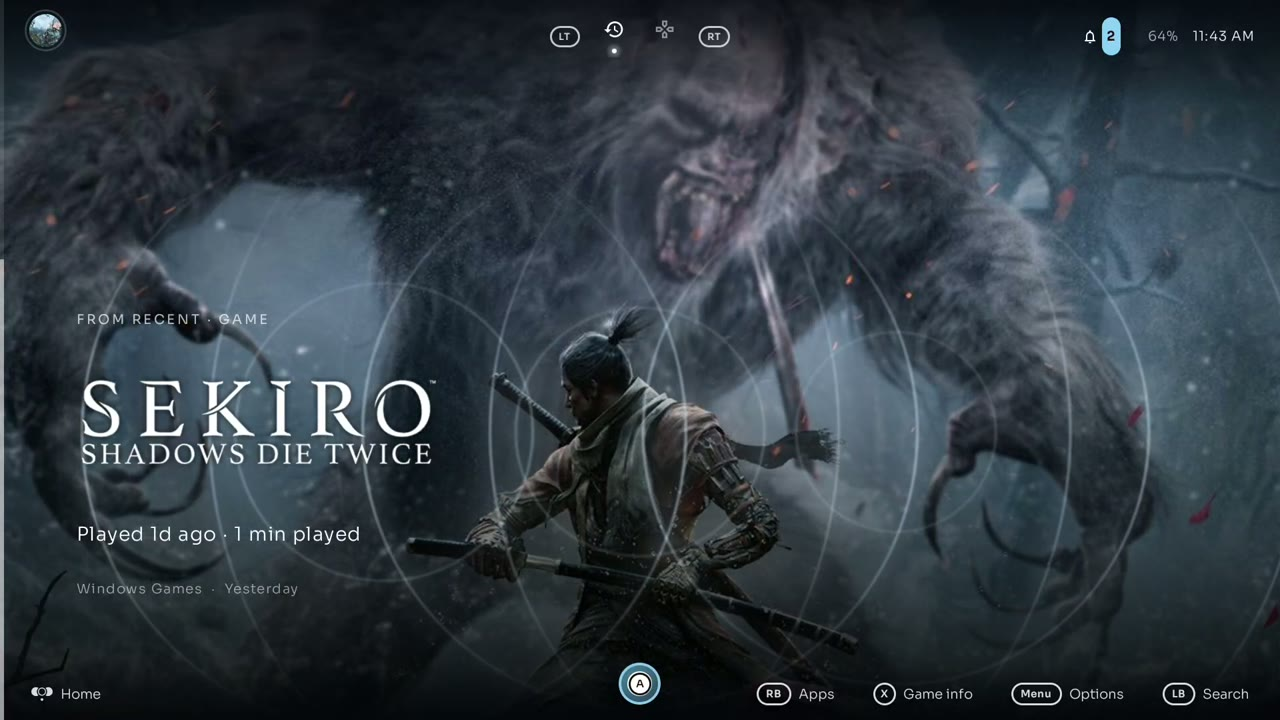
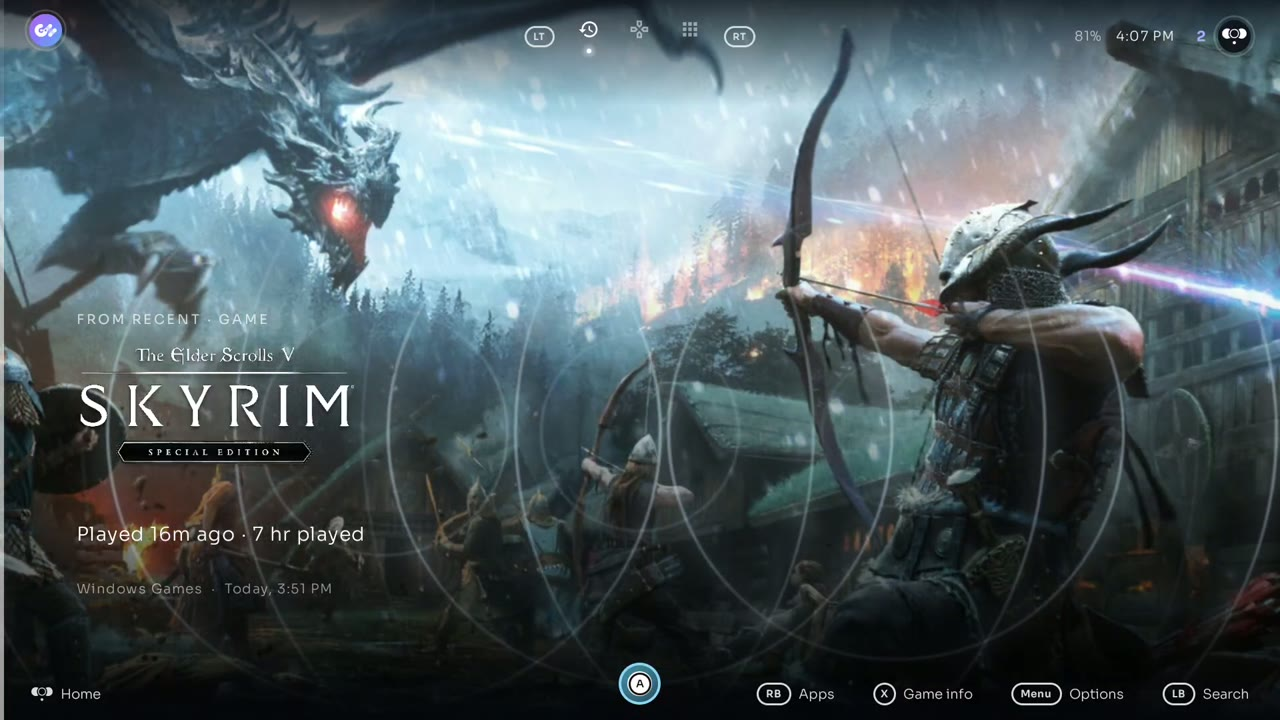
docs: screenshots and README for the shelf, the cases and the cover slot
Retaken on the Konker: Last Played and its rail, the App Drawer and its menu,
Search, Settings and Overview. The README describes the drawer's cases, the
search shelf, the icon slot as every game's cover, and Accounts > Artwork.

Verify: docs only; every image the README names exists.

diff --git a/README.md b/README.md
@@ -65,7 +65,9 @@ it in the colour of its art. Press LEFT, or swipe right, to bring in the **Recen
 | Last Played | The Recent rail |
 
 The bar along the top holds the **island** (what is playing, or the last thing you opened), the
-section icons, notifications, battery and time. The footer holds **Home** and **Back** on the left,
+section icons, battery and time, and at the far right a second island for notifications: the ECHO
+mark with the count beside it when something is waiting, otherwise your profile picture. A new
+notification drops out of it as a card; press it once to see the newest, twice to open them all. The footer holds **Home** and **Back** on the left,
 the **A** action in the centre, and the screen's own actions on the right. Games and apps launch
 when you **hold A** until the ring fills, so a stray press never launches anything.
 
@@ -99,16 +101,23 @@ anything destructive asks twice. **Game Info** shows play time, platform, screen
 
 ### The App Drawer and Search
 
-The **App Drawer** (RB) shows the focused app as a hero banner, with **Open** and **Options**, and
-every app below it in columns. Its sections (Recently Used, Apps, Emulators, Games) are icons in the
-top bar; LT and RT move between them. **Search** (Y or LB) works the same way across every library
-at once: the highlighted result is the hero, and the results run full width below it. A newly
-installed app shows up straight away.
+The **App Drawer** (RB) lists the focused app's details on the left (its name, kind, what is known
+about it, **Open** and **Options**) and every app as a case in four columns on the right, with a VHS
+spine saying what it is. Its sections (Recently Used, Apps, Emulators, Games) are icons in the top
+bar; LT and RT move between them. The Games tab has a chip per system, Steam Games included, and a
+game's **≡** opens the same menu as on the crossbar.
+
+**Search** (Y or LB) puts every result on one shelf: the likeliest match stands in the middle as a
+whole case, the rest as spines fanning out to both sides, and left and right slide along it. LB and
+RB filter by kind (Games, Apps, Music, Video, Books). A newly installed app shows up straight away.
+
+A game's cover, everywhere it shows (the crossbar's cover rows, the drawer, Search and GameBoot), is
+its **icon slot**; the main art is used only when the icon slot is empty.
 
 | | |
 |:---:|:---:|
 | <img src="docs/screenshots/app-drawer.jpg" width="420"> | <img src="docs/screenshots/app-drawer-context-menu.jpg" width="420"> |
-| The App Drawer | An app's options |
+| The App Drawer | An item's options |
 | <img src="docs/screenshots/search.jpg" width="420"> | |
 | Search | |
 
@@ -130,7 +139,8 @@ pans and rotates, and any photo can become the wallpaper with its EXIF data stri
 
 ### The top panel and Settings
 
-**Home** (the Guide or View button), or a tap on the top bar's bell, opens the panel: Notifications,
+**Home** (the Guide or View button) or a tap on the notification island at the top right first shows the newest
+notification as a card, when there is one; a second press opens the panel: Notifications,
 Profile, Quick settings, Libraries and Settings. Settings has seven sections: **Overview, Library, Emulators,
 Look & Feel, Accounts, System, Setup**.
 
@@ -329,7 +339,7 @@ access to all of your storage.
 | App Drawer | **RB** on the crossbar, or **B** at the top level | | Apps, in the footer |
 | Categories, tabs, sections and filters | **LT / RT** | Page Up / Page Down | Tap |
 | Page or seek in lists and players | **LB / RB** | | |
-| Home: the top panel | **Guide** or **View** | | Tap the bell; slide up to close |
+| Home: the top panel | **Guide** or **View** (twice when a notification is waiting) | | Tap the notification island twice; slide up to close |
 
 - **D-pad ◀ backs out** of a folder, flyout or settings page wherever LEFT is not already doing
   something. Turn it off with *Look & Feel ▸ Controller ▸ Left Backs Out*.
@@ -414,7 +424,7 @@ Recent** takes one off.
 ### Artwork
 
 Art and metadata are fetched only when you ask. Sources are set up in
-*Emulators ▸ Scraping Sources*:
+*Accounts ▸ Artwork*:
 
 - **ScreenScraper**: works without setup; a user account is optional.
 - **SteamGridDB**: needs a free API key.
@@ -535,9 +545,9 @@ Relink Folder**.
 |---|---|
 | **Overview** | Library, artwork and build cards |
 | **Library** | Media Libraries (music, video, photo and book folders) · Hidden Items |
-| **Emulators** | Library Manager · Artwork · Scraping Sources · Installed · Custom Emulators · RetroArch |
+| **Emulators** | Library Manager · Artwork · Installed · Custom Emulators · RetroArch |
 | **Look & Feel** | Theme · Wallpaper & Text · Layout · Boot · Sound · Categories · Controller · Touch · Performance |
-| **Accounts** | Permissions · Accounts (RetroAchievements and Steam) · Discord |
+| **Accounts** | Permissions · Achievements (RetroAchievements and Steam) · Artwork (SteamGridDB, ScreenScraper, IGDB, TMDB) · Discord |
 | **System** | About · Logs · Backup & Restore · Credits |
 | **Setup** | Setup Wizard |
 
@@ -568,7 +578,7 @@ category with no folder keeps only its apps. In a media category's top column or
 | A console shows no new games | **≡ ▸ Scan This Console**, or turn on *Rescan On Return* |
 | A game will not launch | Check the emulator is installed, then **≡ ▸ Settings ▸ Change Emulator** and the card's **Default Emulator** |
 | Games or media went missing after a reinstall or restore | Relink the folder: **Folders ▸ ≡ ▸ Relink Folder** |
-| Artwork will not download | Add a key in *Emulators ▸ Scraping Sources* and check the connection |
+| Artwork will not download | Add a key in *Accounts ▸ Artwork* and check the connection. A key saved on another install (a restored backup) cannot be read here and shows as not set: enter it again |
 | Recently Used is empty | Allow restricted settings for ECHO, then grant usage access (see [Permissions](#permissions)) |
 | No notifications in the top panel | Grant notification access in *Accounts ▸ Permissions* |
 | The interface is too big, small or off-centre | *Look & Feel ▸ Layout ▸ Adjust Crossbar Layout* |
